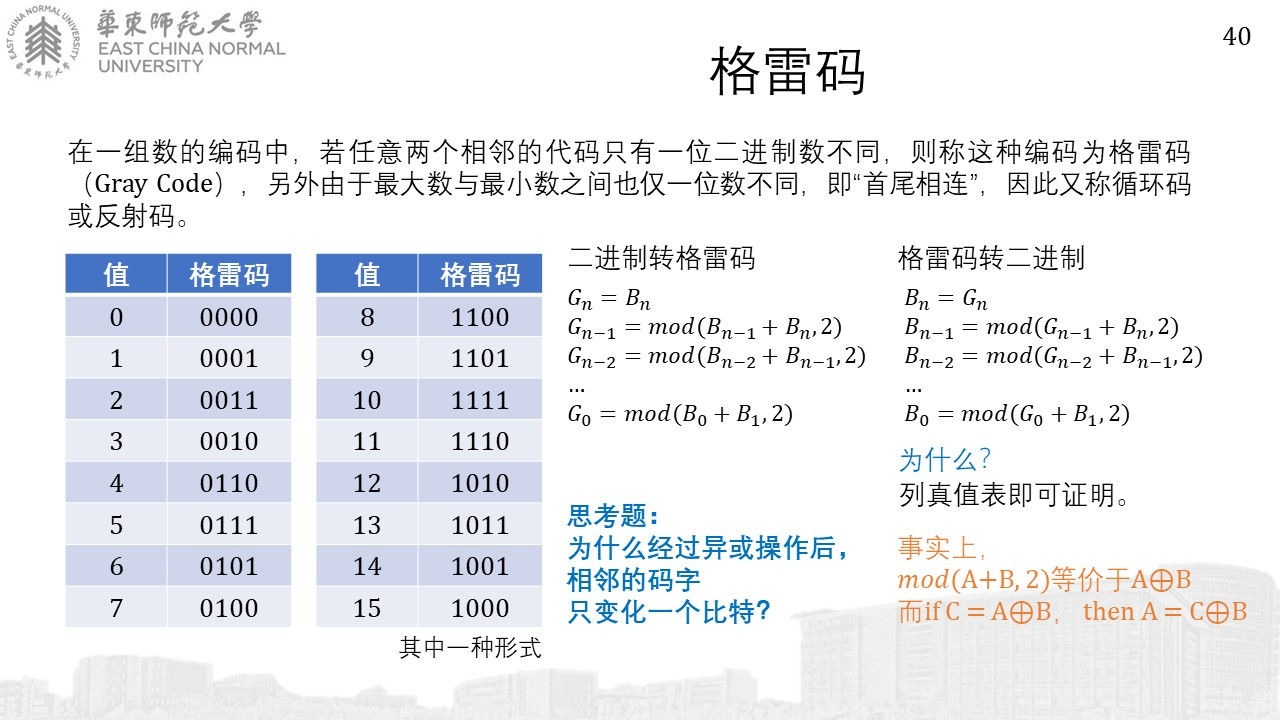
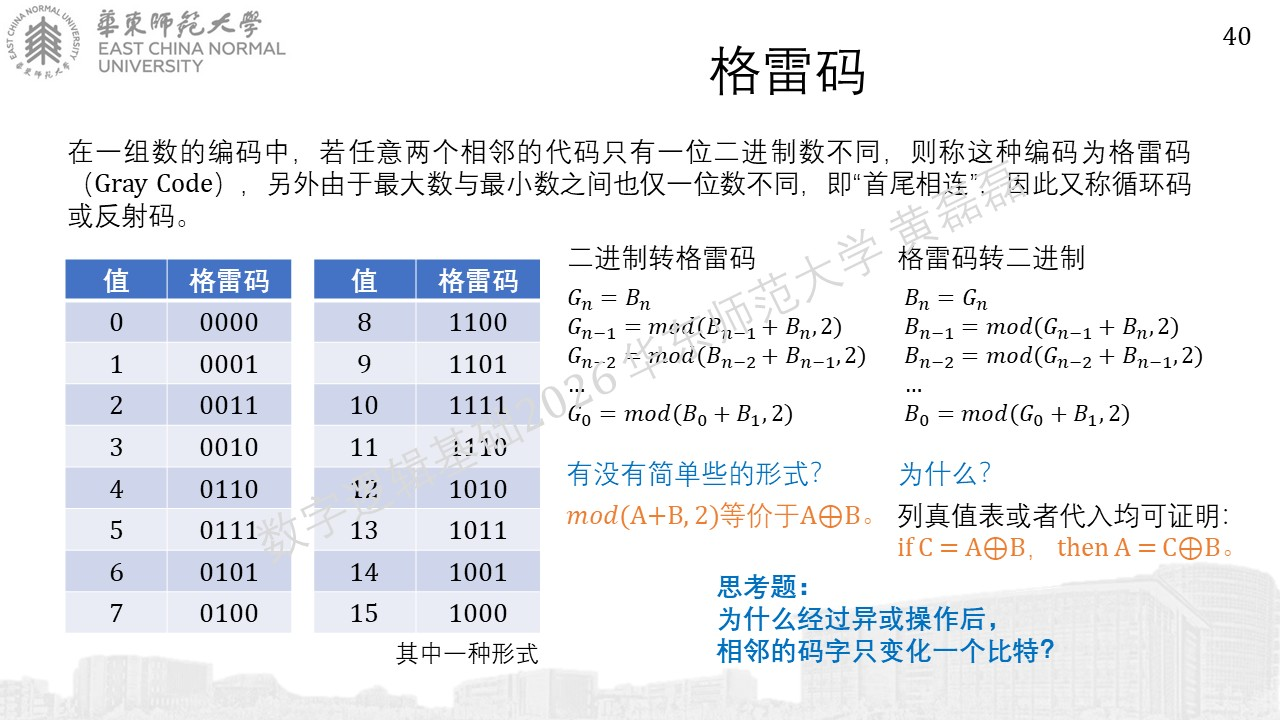
6th lecture

Changed region(s): [[0.0312, 0.3361, 0.9688, 0.9167], [0.6875, 0.2444, 0.8125, 0.3361], [0.6562, 0.3361, 0.6875, 0.3667]]

diff --git a/source/数字逻辑基础 - 第04讲~第05讲 - 补充B - 编码纠错/index.rst b/source/数字逻辑基础 - 第04讲~第05讲 - 补充B - 编码纠错/index.rst
@@ -1,49 +1,50 @@
+
 .. -----------------------------------------------------------------------------
    ..
    ..  Filename       : index.rst
    ..  Author         : Huang Leilei
    ..  Status         : phase 000
    ..  Created        : 2026-09-14
-   ..  Description    : description about 第03讲 - 逻辑代数 - 标准表达式
+   ..  Description    : description about 补充B - 编码纠错
    ..
 .. -----------------------------------------------------------------------------
 
-第03讲 - 逻辑代数 - 标准表达式
+*补充B - 编码纠错*
 --------------------------------------------------------------------------------
 
 .. image:: 幻灯片1.JPG
 
-引子
+*基本概念*
 ........................................
 .. image:: 幻灯片2.JPG
-
-“积之和”与“和之积”
-........................................
 .. image:: 幻灯片3.JPG
 
-“积之和”
-````````````````````````````````````````
+*奇偶校验码*
+........................................
 .. image:: 幻灯片4.JPG
 .. image:: 幻灯片5.JPG
 .. image:: 幻灯片6.JPG
 .. image:: 幻灯片7.JPG
 
-“和之积”
-````````````````````````````````````````
+*汉明码*
+........................................
 .. image:: 幻灯片8.JPG
+
+*汉明码*
+````````````````````````````````````````
 .. image:: 幻灯片9.JPG
 .. image:: 幻灯片10.JPG
 .. image:: 幻灯片11.JPG
 .. image:: 幻灯片12.JPG
-.. image:: 幻灯片13.JPG
 
-小结
+*SECDED*
 ````````````````````````````````````````
+.. image:: 幻灯片13.JPG
 .. image:: 幻灯片14.JPG
-
-卡诺图
-........................................
 .. image:: 幻灯片15.JPG
+
+*BCH码*
+........................................
 .. image:: 幻灯片16.JPG
 .. image:: 幻灯片17.JPG
 .. image:: 幻灯片18.JPG
@@ -52,3 +53,10 @@
 .. image:: 幻灯片21.JPG
 .. image:: 幻灯片22.JPG
 .. image:: 幻灯片23.JPG
+.. image:: 幻灯片24.JPG
+.. image:: 幻灯片25.JPG
+
+*CRC码*
+........................................
+.. image:: 幻灯片26.JPG
+.. image:: 幻灯片27.JPG

diff --git a/source/index.rst b/source/index.rst
@@ -3,7 +3,7 @@
    ..  Filename       : index.rst
    ..  Author         : Huang Leilei
    ..  Status         : phase 000
-   ..  Created        : 2025-09-16
+   ..  Created        : 2026-09-14
    ..  Description    : description about fundamentals of digital logic
    ..
 .. -----------------------------------------------------------------------------
@@ -23,7 +23,7 @@
    数字逻辑基础 - 第03讲 - 逻辑代数 - 标准表达形式/index
    数字逻辑基础 - 第04讲 - 逻辑代数 - 逻辑化简/index
    数字逻辑基础 - 第04讲~第05讲 - 补充A - 数制运算和编码/index
-.. 数字逻辑基础 - 第04讲~第05讲 - 补充B - 编码纠错/index
+   数字逻辑基础 - 第04讲~第05讲 - 补充B - 编码纠错/index
 .. 数字逻辑基础 - 第05讲 - 组合逻辑 - 电路的分析/index
 .. 数字逻辑基础 - 第06讲 - 组合逻辑 - 电路的设计/index
 .. 数字逻辑基础 - 第06讲~第07讲 - 补充C.1 - 其他加法器和乘法器/index
@@ -51,7 +51,7 @@
    :maxdepth: 2
  
    数字逻辑基础 - 第01周习题的讲解/index
-.. 数字逻辑基础 - 第02周习题的讲解/index
+   数字逻辑基础 - 第02周习题的讲解/index
 .. 数字逻辑基础 - 第04周习题的讲解/index
 .. 数字逻辑基础 - 第05周习题的讲解/index
 .. 数字逻辑基础 - 第06周习题的讲解/index
@@ -70,7 +70,7 @@
    数字逻辑基础 - 第02讲的修订与补充/index
    数字逻辑基础 - 第03讲的修订与补充/index
    数字逻辑基础 - 第04讲的修订与补充/index
-..    数字逻辑基础 - 第04讲~第05讲的修订与补充/index
+   数字逻辑基础 - 第04讲~第05讲的修订与补充/index
 ..    数字逻辑基础 - 第06讲的修订与补充/index
 ..    数字逻辑基础 - 第09讲的修订与补充/index
 ..    数字逻辑基础 - 第11讲的修订与补充/index

diff --git a/source/数字逻辑基础 - 第04讲~第05讲 - 补充A - 数制运算和编码/index.rst b/source/数字逻辑基础 - 第04讲~第05讲 - 补充A - 数制运算和编码/index.rst
@@ -4,7 +4,7 @@
    ..  Filename       : index.rst
    ..  Author         : Huang Leilei
    ..  Status         : phase 000
-   ..  Created        : 2025-09-16
+   ..  Created        : 2026-09-14
    ..  Description    : description about 补充A - 数制运算和编码
    ..
 .. -----------------------------------------------------------------------------
@@ -90,17 +90,17 @@
 .. image:: 幻灯片34.JPG
 .. image:: 幻灯片35.JPG
 
-.. *其他编码及其相互转换*
-.. ........................................
-.. .. image:: 幻灯片36.JPG
-.. 
-.. 二进制码十进制数
-.. ````````````````````````````````````````
-.. .. image:: 幻灯片37.JPG
-.. .. image:: 幻灯片38.JPG
-.. .. image:: 幻灯片39.JPG
-.. 
-.. 格雷码
-.. ````````````````````````````````````````
-.. .. image:: 幻灯片40.JPG
-.. .. image:: 幻灯片41.JPG
+*其他编码及其相互转换*
+........................................
+.. image:: 幻灯片36.JPG
+
+二进制码十进制数
+````````````````````````````````````````
+.. image:: 幻灯片37.JPG
+.. image:: 幻灯片38.JPG
+.. image:: 幻灯片39.JPG
+
+格雷码
+````````````````````````````````````````
+.. image:: 幻灯片40.JPG
+.. image:: 幻灯片41.JPG

diff --git a/source/数字逻辑基础 - 第04讲~第05讲的修订与补充/index.rst b/source/数字逻辑基础 - 第04讲~第05讲的修订与补充/index.rst
@@ -4,14 +4,15 @@
    ..  Author         : Huang Leilei
    ..  Status         : phase 000
    ..  Created        : 2026-09-14
-   ..  Description    : description about 第04讲的修订与补充
+   ..  Description    : description about 第04讲~第05讲的修订与补充
    ..
 .. -----------------------------------------------------------------------------
 
-第04讲的修订与补充
+第04讲~第05讲的修订与补充
 --------------------------------------------------------------------------------
 
 .. image:: 幻灯片1.JPG
 .. image:: 幻灯片2.JPG
 .. image:: 幻灯片3.JPG
 .. image:: 幻灯片4.JPG
+.. image:: 幻灯片5.JPG

diff --git a/source/数字逻辑基础 - 第02周习题的讲解/index.rst b/source/数字逻辑基础 - 第02周习题的讲解/index.rst
@@ -4,14 +4,15 @@
    ..  Author         : Huang Leilei
    ..  Status         : phase 000
    ..  Created        : 2026-09-14
-   ..  Description    : description about 第04讲的修订与补充
+   ..  Description    : description about 第02周习题的讲解
    ..
 .. -----------------------------------------------------------------------------
 
-第04讲的修订与补充
+第02周习题的讲解
 --------------------------------------------------------------------------------
 
 .. image:: 幻灯片1.JPG
 .. image:: 幻灯片2.JPG
 .. image:: 幻灯片3.JPG
 .. image:: 幻灯片4.JPG
+.. image:: 幻灯片5.JPG

diff --git a/source/数字逻辑基础 - 第04讲 - 逻辑代数 - 逻辑化简/index.rst b/source/数字逻辑基础 - 第04讲 - 逻辑代数 - 逻辑化简/index.rst
@@ -3,7 +3,7 @@
    ..  Filename       : index.rst
    ..  Author         : Huang Leilei
    ..  Status         : phase 000
-   ..  Created        : 2025-09-16
+   ..  Created        : 2026-09-14
    ..  Description    : description about 第04讲 - 逻辑代数 - 逻辑化简
    ..
 .. -----------------------------------------------------------------------------

diff --git a/source/数字逻辑基础 - 第02讲的修订与补充/index.rst b/source/数字逻辑基础 - 第02讲的修订与补充/index.rst
@@ -3,7 +3,7 @@
    ..  Filename       : index.rst
    ..  Author         : Huang Leilei
    ..  Status         : phase 000
-   ..  Created        : 2025-09-16
+   ..  Created        : 2026-09-14
    ..  Description    : description about 第02讲的修订与补充
    ..
 .. -----------------------------------------------------------------------------

diff --git a/source/数字逻辑基础 - 第03讲的修订与补充/index.rst b/source/数字逻辑基础 - 第03讲的修订与补充/index.rst
@@ -3,7 +3,7 @@
    ..  Filename       : index.rst
    ..  Author         : Huang Leilei
    ..  Status         : phase 000
-   ..  Created        : 2025-09-16
+   ..  Created        : 2026-09-14
    ..  Description    : description about 第03讲的修订与补充
    ..
 .. -----------------------------------------------------------------------------

diff --git a/source/数字逻辑基础 - 第01周习题的讲解/index.rst b/source/数字逻辑基础 - 第01周习题的讲解/index.rst
@@ -3,7 +3,7 @@
    ..  Filename       : index.rst
    ..  Author         : Huang Leilei
    ..  Status         : phase 000
-   ..  Created        : 2025-09-16
+   ..  Created        : 2026-09-14
    ..  Description    : description about 第01周习题的讲解
    ..
 .. -----------------------------------------------------------------------------
